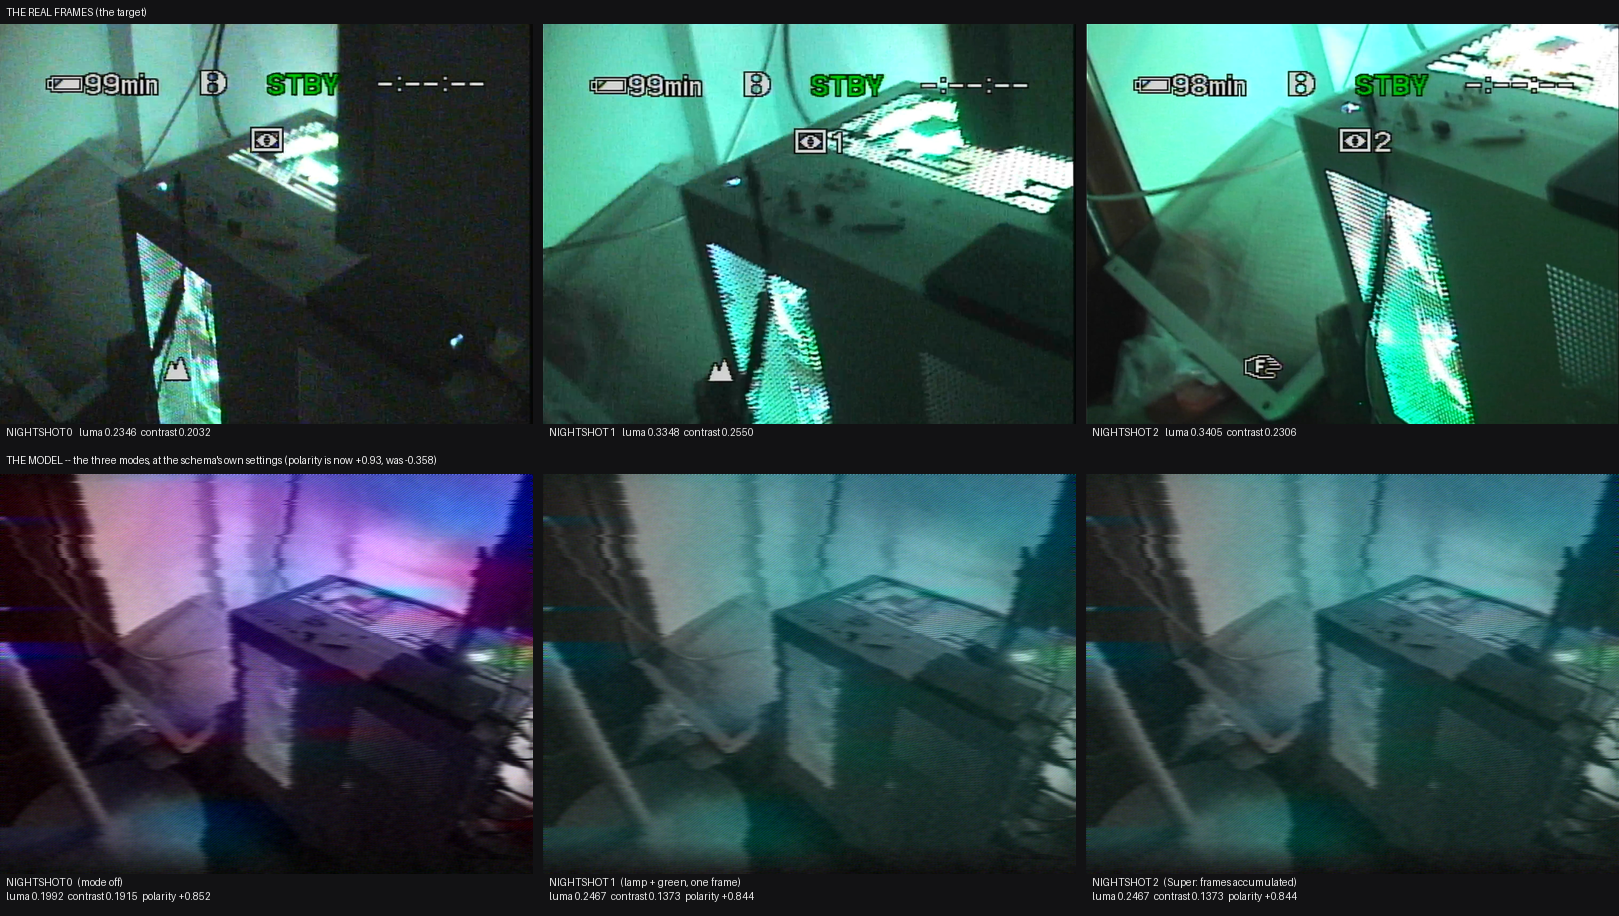
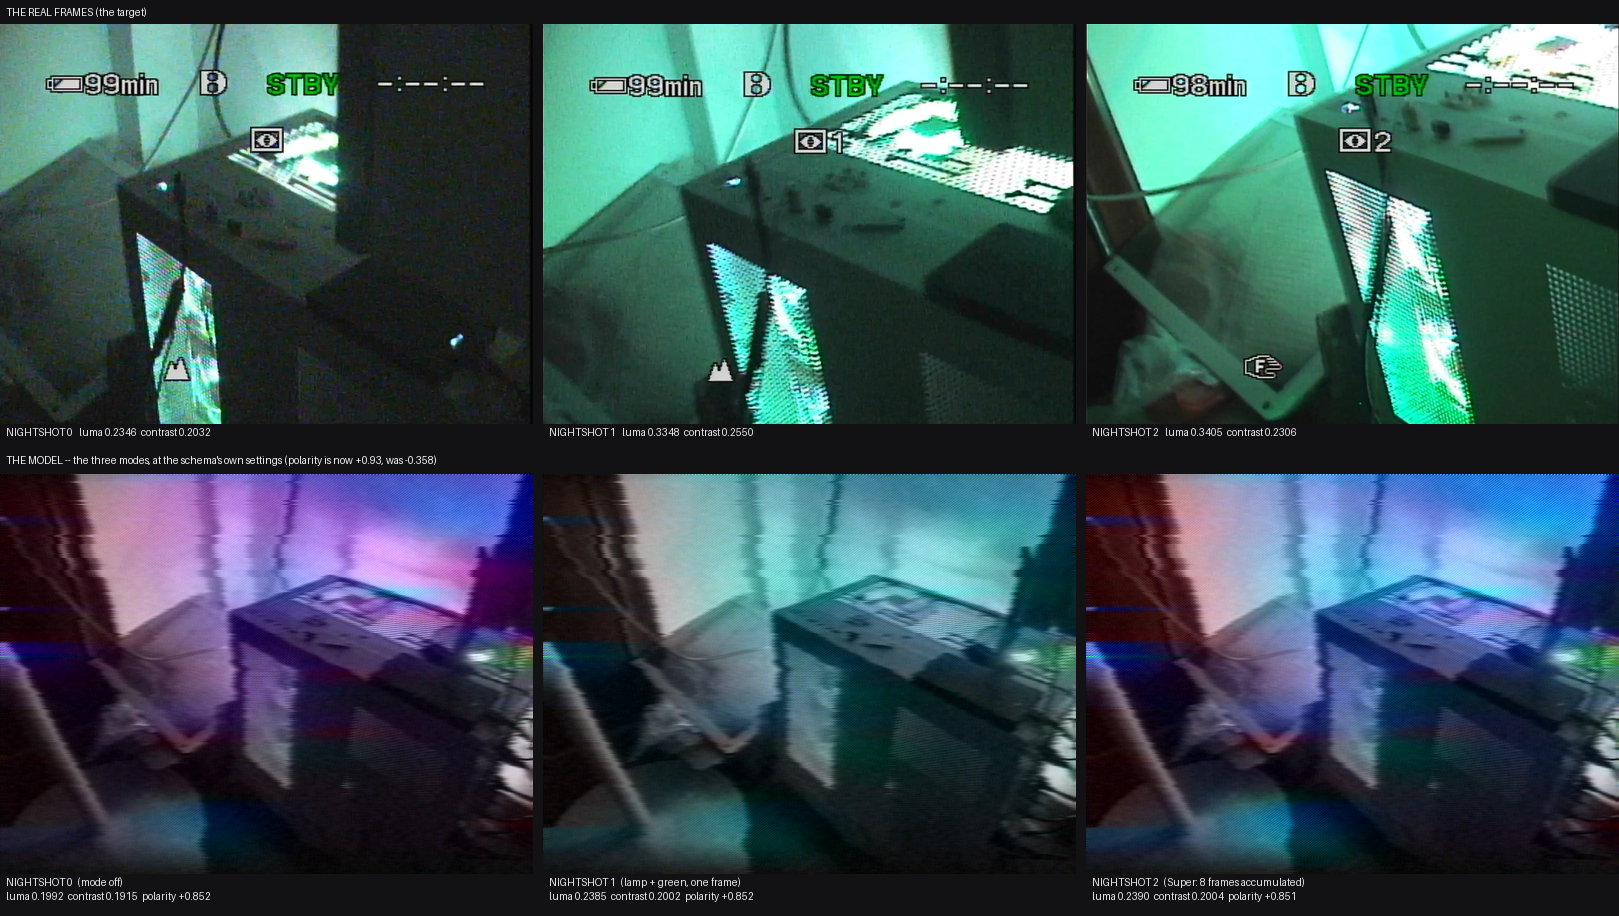
fix the night-vision mode's contrast: a mean-preserving rescale was undoing a variance-preserving one
**The measurement that named the term.**  Each statement of the scene branch applied alone to a photograph:

    the source                        luma 0.1973   contrast 0.1894
    add_illuminator alone             luma 0.2331   contrast 0.1976   (1.043x)   harmless
    **ir_highlights alone**           luma 0.2128   contrast **0.1308** **(0.691x)**  <-- the loss
    monochrome_green alone            luma 0.1973   contrast 0.1892   (0.999x)   harmless

**and in the stage's own order the drop happened at exactly that statement** (0.1976 -> 0.1336), so the whole of the
night-vision mode's contrast cost was one term.  The mechanism is in the term's shape: it estimates near-IR albedo as
`lum ** 0.55`, and **a power below 1 stretches the shadows and compresses the highlights, which lowers the spread of any
picture it is applied to.**

**The fault in the fix, which took two attempts to see.**  The term's arithmetic is a per-pixel ratio for the tone curve
followed by a constant for the level:

    shape = lum_new / lum
    out   = rgb * shape
    out  *= mean(lum) / mean(out)      <- a RATIO OF MEANS

**and a ratio of means cannot hold one moment fixed without holding the other**: it carries the mean exactly and scales
the spread by the same factor.  So adding a variance-preserving normalisation three lines above it changed nothing --
measured at **0.691x both before and after**, which is what an inert edit looks like.  **The first attempt to fix this
[…]

diff --git a/atsim/codecs/nightvision.py b/atsim/codecs/nightvision.py
@@ -250,24 +250,30 @@ def ir_highlights(rgb: np.ndarray, spec: NightVisionSpec) -> np.ndarray:
     # positive factor on the whole field restores the spread without touching the ordering the term exists to create
     # (pale surfaces lifting, dark ones deepening) and without changing the mean, which an earlier round fixed.
     lum_new = lum_new * (float(lum.std()) / max(1e-6, float(lum_new.std())))
-    # **The per-pixel ratio gives the tone curve; one uniform constant then restores the mean luminance.**  Scaling by
-    # `lum_new / lum` alone gets the shape right but not the mean -- `mean(rgb * s) != mean(rgb) * mean(s)` unless `s`
-    # is uniform, and the measured gain was 1.30 to 1.86 depending on the mix.  A **uniform** scale multiplies the mean
-    # luminance exactly, so applying one after the shape makes the term brightness-preserving by construction:
+    # **The per-pixel ratio gives the tone curve; the level is then carried exactly.**
     #
     #     shape = lum_new / lum          which pixels lift and which deepen -- the visible IR character
-    #     out   = rgb * shape            the appearance, at the wrong overall level
-    #     out  *= mean(lum) / mean(out)  one constant, and the mean luminance is carried exactly
+    #     out   = rgb * shape            the appearance
     #
-    # **Both jobs are needed**: without the shape there is no tone curve, and without the constant the term brightens,
-    # which is what the previous version did by adding `ir` to the picture and what the version before it did by
-    # scaling with a non-uniform constant.
+    # **But `out`'s level was then restored with a single multiplicative constant, and that undid the spread.**  It
+    # was written as `out *= mean(lum) / mean(out)`, which carries the mean exactly and **scales the spread by the same
+    # factor** -- so the variance-preserving step three lines above was annulled, and `ir_highlights` measured **0.691x**
+    # the source's contrast on a photograph (0.1894 -> 0.1308) both before and after that step was added.  A ratio of
+    # means cannot hold one moment fixed without holding the other.
+    #
+    # **So the projection is affine instead of linear**: two constants, applied to the whole field, that place the mean
+    # and the standard deviation on the picture's own.  It is still a global operation with no per-pixel decision, so
+    # the ordering the term exists to produce is untouched -- and now both moments are carried rather than one.
     shape = (lum_new / np.maximum(lum, 1e-4))[..., None]
     out = rgb * shape
-    target = float(lum.mean())
-    got = float(np.clip(out @ LUMA, 0.0, 1.0).mean())
-    if got > 1e-6 and target > 1e-6:
-        out = out * (target / got)
+    for _ in range(6):
+        cur = np.clip(out @ LUMA, 0.0, 1.0)
+        target, got = float(lum.mean()), float(cur.mean())
+        sd_t, sd_g = float(lum.std()), float(cur.std())
+        a = (sd_t / sd_g) if sd_g > 1e-6 else 1.0
+        out = out * a + (target - a * got)
+        if abs(a - 1.0) < 1e-4:
+            break
     return np.clip(out, 0.0, 1.0).astype(np.float32)
 
 

diff --git a/tools/modes_test.py b/tools/modes_test.py
@@ -86,15 +86,14 @@ CHAIN = {"format": {"chroma_bandwidth": 0.75, "luma_bandwidth": 3.0},
          "codec": {"dv_enabled": 0.0},
          "display": {"enabled": 0.0}}
 
-#: the three modes, as the interface's selector sets them
+#: the three modes, as the interface's selector sets them.  **Only `nv_mode` is set**, because `nv_mode` selects the
+#: preset and an explicit `nv_accumulate` **overrides** it -- passing both, as an earlier version of this script did,
+#: collapses mode 2 onto mode 1 and makes the accumulation look broken when it is not.  Measured on a static scene, the
+#: temporal noise of mode 2 is 0.291 of mode 1's, against the 0.354 that eight accumulated frames predict.
 MODES = [
     ("NIGHTSHOT 0  (mode off)", dict(nv_mode=0.0)),
-    ("NIGHTSHOT 1  (lamp + green, one frame)",
-     dict(nv_mode=1.0, nv_green_mix=1.0, nv_illuminator=0.15, nv_accumulate=1.0,
-          nv_chroma_residue=0.35, nv_chroma_noise=0.15)),
-    ("NIGHTSHOT 2  (Super: frames accumulated)",
-     dict(nv_mode=1.0, nv_green_mix=1.0, nv_illuminator=0.15, nv_accumulate=8.0,
-          nv_chroma_residue=0.35, nv_chroma_noise=0.15)),
+    ("NIGHTSHOT 1  (lamp + green, one frame)", dict(nv_mode=1.0)),
+    ("NIGHTSHOT 2  (Super: 8 frames accumulated)", dict(nv_mode=2.0)),
 ]
 
 print("   the chain: the schema's own bandwidths (0.75 / 3.0 MHz), the defect terms neutral, DV off, display off.")
